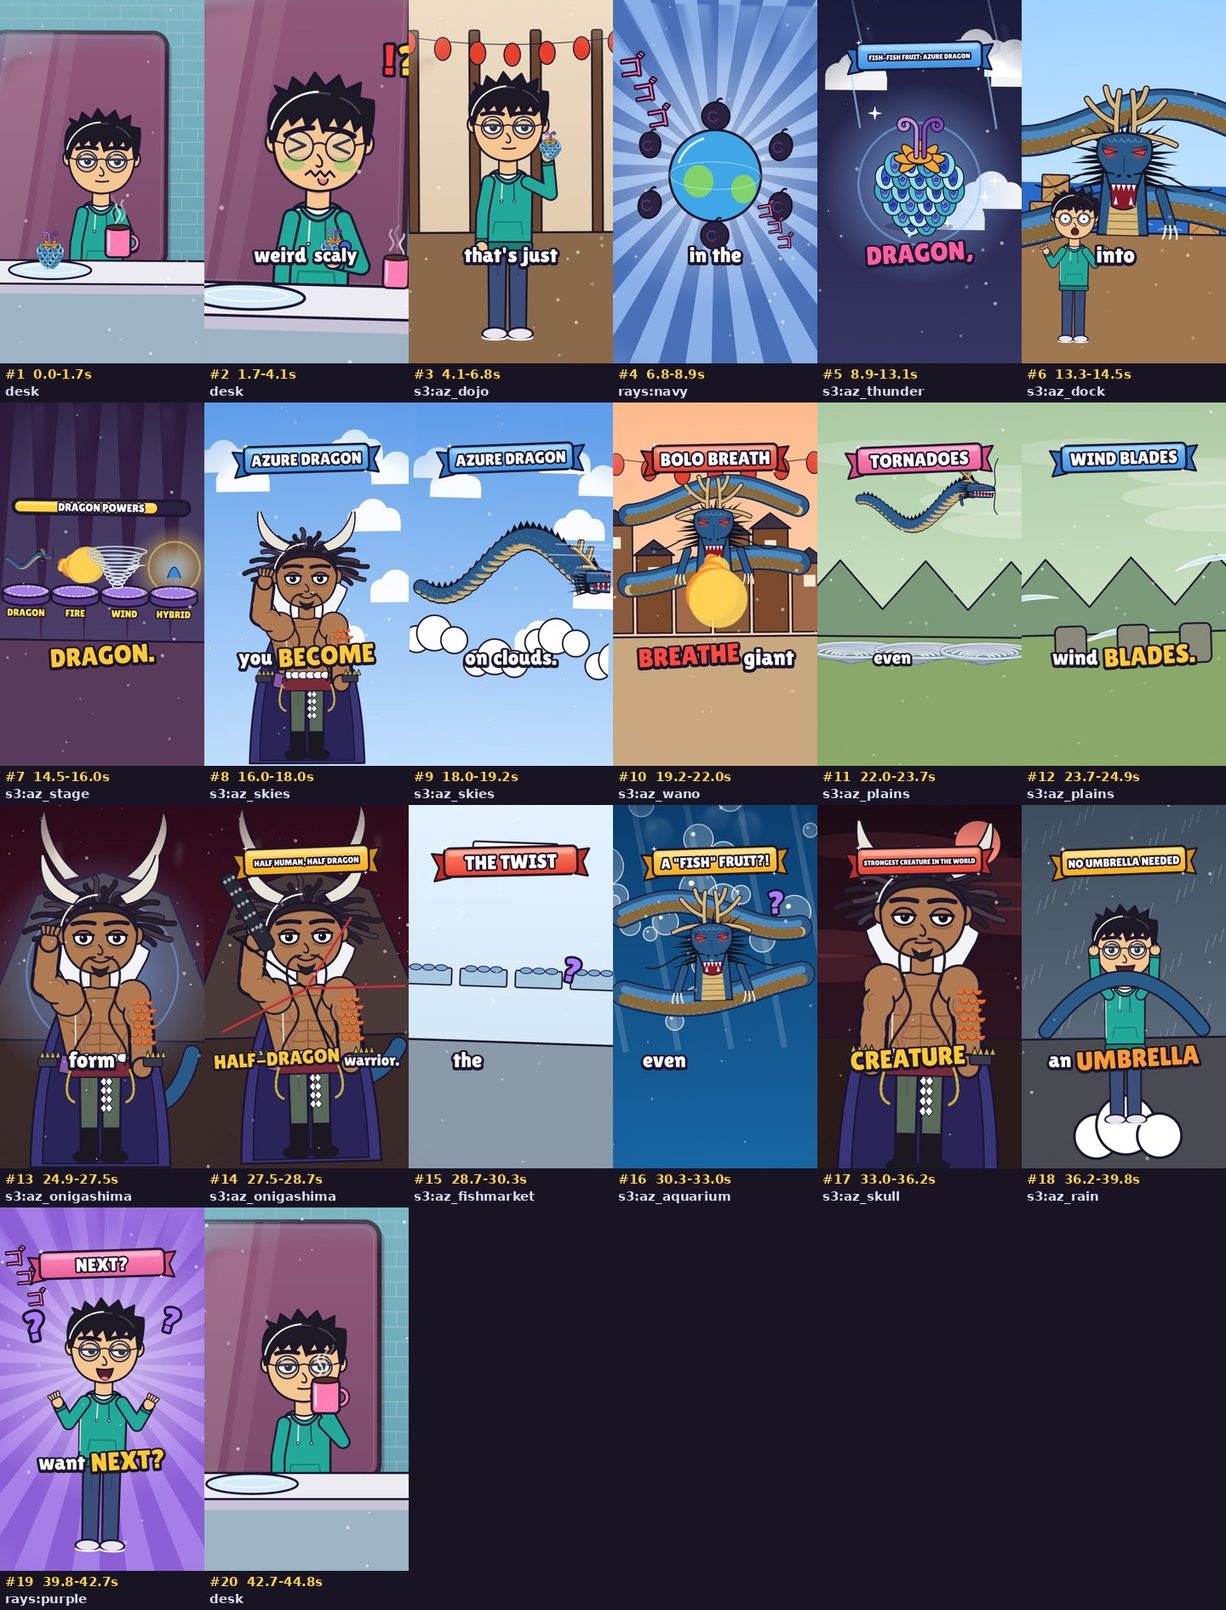
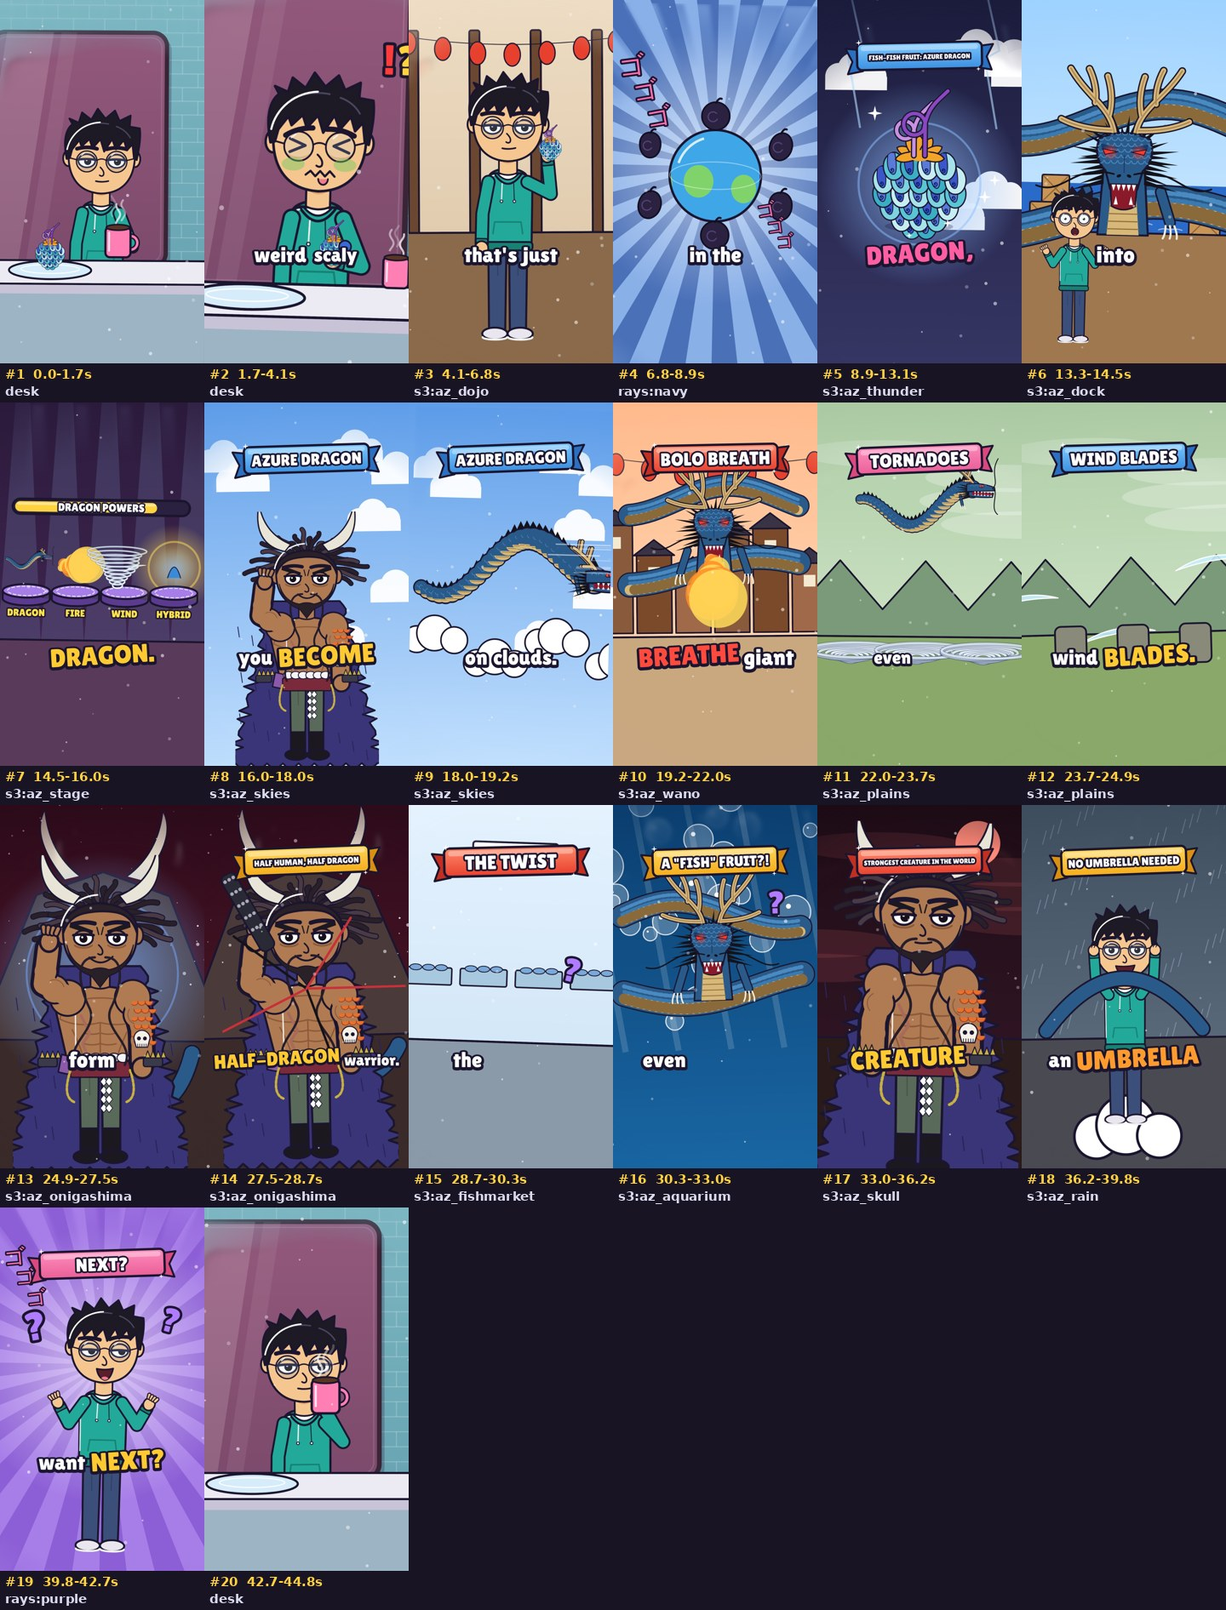
Kaido: shaggy fur coat, jaw beard, angry brows, skull tattoo; Seiryu fruit and dragon closer to the references
Claude-Session: https://claude.ai/code/session_01LedSfqc1zbW4UvWfiqXE3c

diff --git a/engine/art.js b/engine/art.js
@@ -159,8 +159,8 @@ export const LOOKS = {
           top: 'coat', cloth: '#f4f0e6', clothD: '#d8d0c0', inner: '#f4f0e6', innerD: '#d8d0c0', cloakCol: '#5a4a3a', cloakLining: '#3a3028', pants: '#4a4a5a', shoe: '#2a2026', boots: false, arm: '#f4f0e6', cuff: '#f4f0e6' },
   katakuri: { skin: '#e0a878', skinD: '#c08a5a', hair: '#a8305a', hairL: '#d0507a', hairStyle: 'spikyLong', furScarf: true, buff: 1, fit: 1.08,
           top: 'katakuri', pants: '#1b1820', pantsStripes: '#4a4a5a', shoe: '#2a2a36', boots: true, arm: '#e0a878', glove: '#3a2a20', spikeCuffs: true },
-  kaido: { skin: '#b07a52', skinD: '#8a5a3a', hair: '#2a2028', hairL: '#4a3a44', hairStyle: 'short', dreadMane: true, bullHorns: true, goateeLong: true, whiskers: true, buff: 1.5, fit: 1.0,
-          top: 'kaido', cloakCol: '#3a3478', cloakLining: '#2a2458', fur: true, pants: '#5a6a5a', shoe: '#1b1820', boots: true, arm: '#b07a52', spikeCuffs: true, dragonSleeve: true },
+  kaido: { skin: '#b07a52', skinD: '#8a5a3a', hair: '#2a2028', hairL: '#4a3a44', hairStyle: 'short', dreadMane: true, bullHorns: true, jawBeard: true, angryBrows: true, whiskers: true, skullTat: true, buff: 1.5, fit: 1.0,
+          top: 'kaido', cloakCol: '#3a3478', cloakLining: '#2a2458', shaggyCloak: true, pants: '#5a6a5a', shoe: '#1b1820', boots: true, arm: '#b07a52', spikeCuffs: true, dragonSleeve: true },
   sabo: { skin: '#f7cc9c', skinD: '#e2ab78', hair: '#f2cf55', hairL: '#ffe58a', hairStyle: 'curly', hat: 'top', scar: true,
           top: 'coat', cloth: '#2f4f8f', clothD: '#223a6c', inner: '#f4f1ea', innerD: '#cfc8b8', cravat: true, pants: '#3a3340', shoe: '#6b4630', boots: true, cuff: '#f4f1ea' },
 };
@@ -232,6 +232,9 @@ function drawLegs(x, L) {
   x.lineWidth = 6; x.strokeStyle = 'rgba(0,0,0,0.2)'; x.beginPath(); x.moveTo(318, 1150); x.lineTo(320, 1250); x.moveTo(444, 1150); x.lineTo(442, 1250); x.stroke(); // fold lines
 }
 function drawCloak(x, L) { // long smooth cloak from the shoulders to the ground; optional spotted lining and fur collar
+  if (L.shaggyCloak) { const c = L.cloakCol; x.beginPath(); x.moveTo(380, 520); for (let i = 0; i <= 40; i++) { const u = i / 40, px = lerpN(150, -120, u) + Math.sin(i * 2.3) * 30, py = lerpN(520, 1660, u); x.lineTo(px - (i % 2) * 40, py); }
+    for (let i = 0; i <= 18; i++) x.lineTo(-120 + i * 55, 1660 + (i % 2) * 50); for (let i = 40; i >= 0; i--) { const u = i / 40, px = lerpN(610, 880, u) - Math.sin(i * 2.3) * 30, py = lerpN(520, 1660, u); x.lineTo(px + (i % 2) * 40, py); } x.closePath(); fs(x, c, 12);
+    x.strokeStyle = L.cloakLining; x.lineWidth = 6; for (let i = 0; i < 30; i++) { const px = (i * 97) % 960 - 100, py = 700 + (i * 61) % 900; if (px > 180 && px < 580) continue; x.beginPath(); x.moveTo(px, py); x.lineTo(px + 10, py + 70); x.stroke(); } return; }
   x.beginPath(); x.moveTo(250, 600); x.quadraticCurveTo(0, 900, -20, 1660); x.lineTo(780, 1660); x.quadraticCurveTo(760, 900, 510, 600); x.closePath(); fs(x, L.cloakCol, 12);
   if (L.cloakLining) { x.beginPath(); x.moveTo(260, 640); x.quadraticCurveTo(60, 950, 50, 1640); x.lineTo(710, 1640); x.quadraticCurveTo(700, 950, 500, 640); x.closePath(); fs(x, L.cloakLining, 8);
     if (L.liningSpots) x.save(); else x.save(), x.beginPath(), x.rect(0, 0, 0, 0); x.clip(); x.fillStyle = '#2a2014'; for (let i = 0; i < 46; i++) { x.beginPath(); x.ellipse(40 + (i * 131) % 680, 660 + ((i * 197) % 1000), 18, 26, 0.3, 0, 7); x.fill(); } x.restore(); }
@@ -524,6 +527,8 @@ export function drawPerson({ who = 'host', expr = 'calm', mouth = 0, blink = fal
   head(); fs(x, L.skin, 12);
   if (L.sideburns) { x.save(); head(); x.clip(); x.fillStyle = L.hair; for (const sd of [-1, 1]) { x.beginPath(); x.moveTo(380 + sd * 215, 200); x.lineTo(380 + sd * 160, 200); x.quadraticCurveTo(380 + sd * 165, 380, 380 + sd * 150, 520); x.lineTo(380 + sd * 205, 470); x.closePath(); x.fill(); } x.restore(); head(); x.lineWidth = 12; x.strokeStyle = OL; x.stroke(); }
   if (L.thinBurns) { x.save(); head(); x.clip(); x.fillStyle = L.hair; for (const sd of [-1, 1]) { x.beginPath(); x.moveTo(380 + sd * 205, 200); x.lineTo(380 + sd * 168, 210); x.quadraticCurveTo(380 + sd * 160, 360, 380 + sd * 150, 470); x.lineTo(380 + sd * 172, 478); x.quadraticCurveTo(380 + sd * 190, 360, 380 + sd * 205, 200); x.closePath(); x.fill(); } x.restore(); head(); x.lineWidth = 12; x.strokeStyle = OL; x.stroke(); }
+  if (L.angryBrows) { for (const sd of [-1, 1]) { x.beginPath(); x.moveTo(380 + sd * 40, 318); x.lineTo(380 + sd * 170, 270); x.lineTo(380 + sd * 175, 300); x.lineTo(380 + sd * 45, 342); x.closePath(); x.fillStyle = '#1b1820'; x.fill(); } x.strokeStyle = '#1b1820'; x.lineWidth = 7; x.beginPath(); x.moveTo(362, 300); x.lineTo(372, 340); x.moveTo(398, 300); x.lineTo(388, 340); x.stroke(); }
+  if (L.jawBeard) { x.beginPath(); x.moveTo(190, 400); x.quadraticCurveTo(215, 540, 330, 575); x.lineTo(380, 640); x.lineTo(430, 575); x.quadraticCurveTo(545, 540, 570, 400); x.quadraticCurveTo(540, 520, 430, 540); x.quadraticCurveTo(380, 520, 330, 540); x.quadraticCurveTo(220, 520, 190, 400); x.closePath(); x.fillStyle = L.hair; x.fill(); x.strokeStyle = OL; x.lineWidth = 6; x.stroke(); }
   if (L.goateeLong) { x.beginPath(); x.moveTo(330, 520); x.quadraticCurveTo(380, 640, 430, 520); x.quadraticCurveTo(380, 560, 330, 520); fs(x, L.hair, 8); }
   if (L.wrinkles) { x.strokeStyle = L.skinD; x.lineWidth = 6; x.lineCap = 'round'; for (const sd of [-1, 1]) { x.beginPath(); x.moveTo(380 + sd * 70, 445); x.quadraticCurveTo(380 + sd * 95, 500, 380 + sd * 80, 545); x.stroke(); } x.beginPath(); x.moveTo(320, 235); x.lineTo(440, 235); x.moveTo(335, 255); x.lineTo(425, 255); x.stroke(); }
   if (L.beard) { x.beginPath(); x.moveTo(176, 380); x.bezierCurveTo(190, 520, 280, 600, 380, 604); x.bezierCurveTo(480, 600, 570, 520, 584, 380); x.bezierCurveTo(560, 470, 480, 470, 380, 470); x.bezierCurveTo(280, 470, 200, 470, 176, 380); fs(x, L.hair, 11); }
@@ -789,6 +794,7 @@ export function drawPerson({ who = 'host', expr = 'calm', mouth = 0, blink = fal
   if (L.shoulderPad) shoulderPad(x);
   if (L.spikeCuffs) for (const hx of (L.buff ? [[160 - L.buff * 54, 1070], [600 + L.buff * 54, 1070]] : [[160, 1070], [600, 1070]])) { rrect(x, hx[0] - 55, hx[1] - 30, 110, 50, 12); fs(x, '#3a3a4a', 7); for (let k = 0; k < 4; k++) { x.beginPath(); x.moveTo(hx[0] - 45 + k * 30, hx[1] - 30); x.lineTo(hx[0] - 30 + k * 30, hx[1] - 70); x.lineTo(hx[0] - 15 + k * 30, hx[1] - 30); x.closePath(); fs(x, '#c8b040', 5); } }
   if (L.dragonSleeve && (POSES[pose] || POSES.idle).R[1][1] > 1000) { x.save(); x.beginPath(); x.rect(560, 640, 150, 330); x.clip(); for (let r = 0; r < 7; r++) for (let k = 0; k < 3; k++) { x.beginPath(); x.arc(575 + k * 42 + (r % 2) * 20, 720 + r * 45, 22, 0, Math.PI); x.fillStyle = '#e8702e'; x.fill(); x.lineWidth = 4; x.strokeStyle = '#a03a1a'; x.stroke(); } x.restore(); }
+  if (L.skullTat && (POSES[pose] || POSES.idle).R[1][1] > 1000) { const sx = 618, sy = 930; x.beginPath(); x.arc(sx, sy, 46, Math.PI, 0); x.lineTo(sx + 32, sy + 50); x.lineTo(sx - 32, sy + 50); x.closePath(); fs(x, '#f4f0e8', 6); x.fillStyle = OL; for (const d of [-17, 17]) { x.beginPath(); x.arc(sx + d, sy, 11, 0, 7); x.fill(); } for (let k = -2; k <= 2; k++) x.fillRect(sx + k * 12 - 2, sy + 30, 4, 18); }
   if (L.whiskers) for (const sd of [-1, 1]) { x.beginPath(); x.moveTo(380 + sd * 30, 470); x.bezierCurveTo(380 + sd * 150, 470, 380 + sd * 120, 640, 380 + sd * 60, 760); x.bezierCurveTo(380 + sd * 10, 880, 380 + sd * 200, 960, 380 + sd * 140, 1080); x.lineCap = 'round'; x.lineWidth = 13; x.strokeStyle = OL; x.stroke(); x.lineWidth = 7; x.strokeStyle = '#2a2028'; x.stroke(); }
   if (L.furScarf) for (let r = 0; r < 4; r++) { const y = 640 - r * 52; x.beginPath(); for (let i = 0; i <= 22; i++) { const a = Math.PI * (i / 22), w = 300 - r * 30; x.lineTo(380 - Math.cos(a) * w, y + Math.sin(a) * 50 + ((i % 2) ? 22 : 0)); } for (let i = 22; i >= 0; i--) { const a = Math.PI * (i / 22), w = 280 - r * 30; x.lineTo(380 - Math.cos(a) * w, y - 50 + Math.sin(a) * 30 - ((i % 2) ? 18 : 0)); } x.closePath(); fs(x, r % 2 ? '#1b1820' : '#f4ecd8', 7); }
   if (L.coatSleeves) for (const sd of [-1, 1]) { x.beginPath(); x.moveTo(380 + sd * 230, 700); x.quadraticCurveTo(380 + sd * 330, 900, 380 + sd * 320, 1130); x.lineTo(380 + sd * 240, 1140); x.quadraticCurveTo(380 + sd * 250, 920, 380 + sd * 200, 730); x.closePath(); fs(x, L.cloakCol || '#f4f4f8', 10); rrect(x, 380 + sd * 280 - 48, 1110, 96, 70, 16); fs(x, '#f4e070', 8); }

diff --git a/shorts/azure/story.js b/shorts/azure/story.js
@@ -55,7 +55,7 @@ export function dragon(x, cx, cy, s, t, o = {}) { const n = 30, pts = []; for (l
 function coil(x, pts, w) { const path = () => { x.beginPath(); pts.forEach(([px, py], i) => (i ? x.lineTo(px, py) : x.moveTo(px, py))); };
   x.lineCap = 'round'; x.lineJoin = 'round'; path(); x.lineWidth = w + 18; x.strokeStyle = A.OL; x.stroke(); path(); x.lineWidth = w; x.strokeStyle = '#2a5a8a'; x.stroke();
   x.save(); x.translate(0, w * 0.22); path(); x.lineWidth = w * 0.45; x.strokeStyle = '#d8b878'; x.stroke(); path(); x.setLineDash([6, w * 0.22]); x.lineWidth = w * 0.45; x.strokeStyle = '#8a6a3a'; x.stroke(); x.restore();
-  x.save(); x.translate(0, -w * 0.18); path(); x.setLineDash([w * 0.18, w * 0.14]); x.lineWidth = w * 0.3; x.strokeStyle = '#4a8ac0'; x.stroke(); x.restore(); x.setLineDash([]); }
+  for (const [off, lw] of [[-0.3, 0.16], [-0.08, 0.14]]) { x.save(); x.translate(0, w * off); path(); x.setLineDash([w * 0.12, w * 0.1]); x.lineWidth = w * lw; x.strokeStyle = off < -0.2 ? '#4a8ac0' : '#3a7ab0'; x.stroke(); x.restore(); } x.setLineDash([]); }
 export function dragonFront(x, cx, cy, s, t, o = {}) { x.save(); x.translate(cx, cy); x.scale(s, s); const wv = Math.sin(t * 2) * 20;
   // body coils behind the head
   const c1 = [], c2 = []; for (let i = 0; i <= 30; i++) { const u = i / 30; c1.push([-700 + u * 1400, -250 + Math.sin(u * 5 + t) * 120 + wv]); c2.push([700 - u * 1400, 330 + Math.sin(u * 4 + t + 2) * 110]); }
@@ -63,16 +63,16 @@ export function dragonFront(x, cx, cy, s, t, o = {}) { x.save(); x.translate(cx,
   // neck down from the head
   x.beginPath(); x.moveTo(-120, 0); x.lineTo(120, 0); x.lineTo(150, 420); x.lineTo(-150, 420); x.closePath(); A.fs(x, '#2a5a8a', 12); x.fillStyle = '#d8b878'; x.beginPath(); x.moveTo(-70, 120); x.lineTo(70, 120); x.lineTo(95, 420); x.lineTo(-95, 420); x.closePath(); x.fill(); x.strokeStyle = '#8a6a3a'; x.lineWidth = 6; for (let k = 0; k < 6; k++) { x.beginPath(); x.moveTo(-75 - k * 4, 160 + k * 45); x.lineTo(75 + k * 4, 160 + k * 45); x.stroke(); }
   // clawed arms
-  for (const sd of [-1, 1]) { x.save(); x.translate(sd * 220, 220); x.beginPath(); x.moveTo(0, -60); x.lineTo(sd * 60, 120); x.lineCap = 'round'; x.lineWidth = 70; x.strokeStyle = A.OL; x.stroke(); x.lineWidth = 52; x.strokeStyle = '#2a5a8a'; x.stroke(); for (const d of [-26, 0, 26]) { x.beginPath(); x.moveTo(sd * 60 + d, 140); x.quadraticCurveTo(sd * 70 + d * 1.4, 190, sd * 60 + d * 1.6, 215); x.lineWidth = 12; x.strokeStyle = '#f4ecd8'; x.stroke(); } x.restore(); }
+  for (const sd of [-1, 1]) { x.save(); x.translate(sd * 220, 220); x.beginPath(); x.moveTo(0, -60); x.lineTo(sd * 60, 120); x.lineCap = 'round'; x.lineWidth = 70; x.strokeStyle = A.OL; x.stroke(); x.lineWidth = 52; x.strokeStyle = '#2a5a8a'; x.stroke(); for (const d of [-26, 0, 26]) { x.beginPath(); x.moveTo(sd * 60 + d, 140); x.quadraticCurveTo(sd * 70 + d * 1.4, 190, sd * 60 + d * 1.6, 215); x.lineWidth = 12; x.strokeStyle = '#f4ecd8'; x.stroke(); } if (o.flames) A.flame(x, sd * 70, 150, 90, 220, t, sd + 2); x.restore(); }
   // black wild mane around the head
   for (let i = 0; i < 20; i++) { const a = Math.PI * (0.95 + i / 19 * 1.1), r = 230 + (i % 3) * 50; x.beginPath(); x.moveTo(Math.cos(a - 0.12) * 120, -40 + Math.sin(a - 0.12) * 120); x.lineTo(Math.cos(a) * r, -40 + Math.sin(a) * r * 0.9 + (i % 2) * 20); x.lineTo(Math.cos(a + 0.12) * 120, -40 + Math.sin(a + 0.12) * 120); x.closePath(); x.fillStyle = '#14121a'; x.fill(); }
   for (const sd of [-1, 1]) for (let k = 0; k < 6; k++) { x.beginPath(); x.moveTo(sd * 120, -60 + k * 30); x.lineTo(sd * (260 + (k % 2) * 60), -40 + k * 40); x.lineTo(sd * 120, -30 + k * 30); x.closePath(); x.fillStyle = '#14121a'; x.fill(); }
-  // tan branching antlers
-  for (const sd of [-1, 1]) { const br = () => { x.beginPath(); x.moveTo(sd * 50, -150); x.quadraticCurveTo(sd * 60, -300, sd * 40, -430); x.moveTo(sd * 54, -240); x.quadraticCurveTo(sd * 150, -270, sd * 230, -380); x.moveTo(sd * 52, -330); x.quadraticCurveTo(sd * 100, -360, sd * 120, -450); x.moveTo(sd * 70, -170); x.quadraticCurveTo(sd * 200, -170, sd * 300, -120); };
-    x.lineCap = 'round'; br(); x.lineWidth = 40; x.strokeStyle = A.OL; x.stroke(); br(); x.lineWidth = 26; x.strokeStyle = '#d8b878'; x.stroke(); }
+  // big tan antlers: curve up and out from the brow, then sweep back with forward branches
+  for (const sd of [-1, 1]) { const br = () => { x.beginPath(); x.moveTo(sd * 60, -150); x.bezierCurveTo(sd * 70, -330, sd * 220, -380, sd * 330, -560); x.moveTo(sd * 95, -290); x.quadraticCurveTo(sd * 70, -400, sd * 110, -520); x.moveTo(sd * 180, -360); x.quadraticCurveTo(sd * 170, -460, sd * 220, -560); x.moveTo(sd * 80, -200); x.quadraticCurveTo(sd * 260, -200, sd * 380, -260); };
+    x.lineCap = 'round'; br(); x.lineWidth = 46; x.strokeStyle = A.OL; x.stroke(); br(); x.lineWidth = 30; x.strokeStyle = '#d8b878'; x.stroke(); br(); x.lineWidth = 8; x.strokeStyle = '#a8865a'; x.stroke(); }
   // head: broad brow narrowing to a long snout
   x.beginPath(); x.moveTo(-150, -150); x.quadraticCurveTo(0, -220, 150, -150); x.quadraticCurveTo(190, -40, 110, 40); x.lineTo(80, 150); x.quadraticCurveTo(0, 175, -80, 150); x.lineTo(-110, 40); x.quadraticCurveTo(-190, -40, -150, -150); x.closePath(); A.fs(x, '#2a5a8a', 12);
-  x.strokeStyle = '#4a8ac0'; x.lineWidth = 6; for (let k = 0; k < 5; k++) { x.beginPath(); x.arc(-80 + k * 40, -150, 18, 0, Math.PI); x.stroke(); }
+  x.save(); x.beginPath(); x.moveTo(-150, -150); x.quadraticCurveTo(0, -220, 150, -150); x.quadraticCurveTo(190, -40, 110, 40); x.lineTo(80, 150); x.lineTo(-80, 150); x.lineTo(-110, 40); x.quadraticCurveTo(-190, -40, -150, -150); x.clip(); x.strokeStyle = '#4a8ac0'; x.lineWidth = 5; for (let r = 0; r < 6; r++) for (let k = -4; k <= 4; k++) { x.beginPath(); x.arc(k * 40 + (r % 2) * 20, -190 + r * 34, 17, 0, Math.PI); x.stroke(); } x.restore();
   // brows + glowing red eyes
   for (const sd of [-1, 1]) { x.beginPath(); x.moveTo(sd * 30, -95); x.lineTo(sd * 140, -120); x.lineTo(sd * 135, -85); x.closePath(); x.fillStyle = '#1a3a6a'; x.fill(); A.glow(x, sd * 85, -70, 50, '255,60,40', 0.8); x.beginPath(); x.moveTo(sd * 40, -72); x.lineTo(sd * 130, -88); x.lineTo(sd * 115, -55); x.closePath(); A.fs(x, '#ff3a2a', 5); }
   // snout ridge + nostrils
@@ -111,7 +111,7 @@ export function buildShots(TL) {
   const tFly = W('power1', /^fly/) - 0.1;
   addSplit({ name: 'Power 1 (open skies): Kaido roars and turns into a huge blue dragon; blue AZURE DRAGON banner', t0: st('power1'), t1: end('power1'), bg: 's3:az_skies',
     cam: [[1.0, 540, 980, -0.02], [1.05, 560, 970, -0.01]], banners: [['AZURE DRAGON', 'blue', st('power1') + 0.2, end('power1'), 'slide']], sfx: [[0.2, 'rumble'], [W('power1', /^dragon/) - st('power1'), 'boom']],
-    draw(x, S) { const td = W('power1', /^dragon/); if (S.T < td) person(x, S, 'kaido', 'grin', 540, 1880, 0.74, { seed: 2, pose: 'raise' }); else { dragonFront(x, 540, 1000, 0.5 + 0.35 * ease.outBack(prog(S.T, td, td + 0.5)), S.T, { roar: true }); if (S.T < td + 0.3) S.shake = 0.5; } } },
+    draw(x, S) { const td = W('power1', /^dragon/); if (S.T < td) person(x, S, 'kaido', 'grin', 540, 1880, 0.74, { seed: 2, pose: 'raise' }); else { dragonFront(x, 540, 1060, 0.5 + 0.3 * ease.outBack(prog(S.T, td, td + 0.5)), S.T, { roar: true, flames: true }); if (S.T < td + 0.3) S.shake = 0.5; } } },
     tFly, [[0.95, 540, 960, 0.02], [1.0, 540, 940, 0.035]], 'Power 1 fly (same skies): the dragon swims through the air riding on puffy white clouds');
   const p1 = T.shots[T.shots.length - 1]; p1.sfx = [[0.1, 'whoosh']]; p1.draw = function (x, S) { for (let i = 0; i < 4; i++) cloudPuff(x, ((S.T * 260 + i * 330) % 1500) - 200, 1250 + (i % 2) * 120, 1.2); dragon(x, 540, 900, 0.9, S.T); A.speedLines(x, 540, 900, S.T, 10, 260, Math.PI); };
 

diff --git a/engine/fruits3.js b/engine/fruits3.js
@@ -158,17 +158,21 @@ export const drawMochi = wrap((x, cx, cy, R) => {
 });
 // ---- Uo Uo no Mi, Model: Seiryu (user's reference): pinecone of overlapping teal/blue scales with curled tongues, orange star calyx, two purple curly stems ----
 export const drawSeiryu = wrap((x, cx, cy, R) => {
-  // big overlapping scales in a teardrop: each a pale teal U with a dark-blue curled tongue; lower rows drawn first so upper rows overlap them
-  const rows = [[-0.45, 4, 0.66], [-0.15, 5, 0.9], [0.15, 5, 0.92], [0.45, 4, 0.7], [0.72, 3, 0.44], [0.92, 2, 0.2]];
-  const cols = ['#5ac8d8', '#b8ecf0', '#3ab0c8', '#8adce6'];
-  const scale = (sx, sy, sw, sh, c, d) => { x.beginPath(); x.ellipse(sx, sy, sw, sh, 0, 0, 7); x.fillStyle = c; x.fill(); x.lineWidth = R * 0.028; x.strokeStyle = OL; x.stroke();
-    x.beginPath(); x.ellipse(sx, sy - sh * 0.05, sw * 0.42, sh * 0.72, 0, 0, 7); x.fillStyle = d; x.fill(); x.lineWidth = R * 0.018; x.stroke(); curl(x, sx, sy + sh * 0.12, sw * 0.26, R * 0.02, '#0a1a5a'); };
-  for (let r = rows.length - 1; r >= 0; r--) { const [dy, n, w] = rows[r]; for (let i = 0; i < n; i++) { const u = n === 1 ? 0 : i / (n - 1) - 0.5; scale(cx + u * w * R * 1.75, cy + dy * R, R * 0.25, R * 0.3, cols[(i + r) % 4], (i + r) % 2 ? '#3a5ad0' : '#6a8ae8'); } }
-  // big orange calyx: rounded arms spreading over the top scales
-  const ccy = cy - R * 0.62; for (let i = 0; i < 7; i++) { const a = -Math.PI / 2 + (i - 3) * 0.75; x.save(); x.translate(cx + Math.cos(a) * R * 0.3, ccy + Math.sin(a) * R * 0.16 + R * 0.05); x.rotate(a + Math.PI / 2); x.beginPath(); x.ellipse(0, 0, R * 0.12, R * 0.3, 0, 0, 7); x.fillStyle = '#f0a830'; x.fill(); x.lineWidth = R * 0.03; x.strokeStyle = OL; x.stroke(); x.restore(); }
-  x.beginPath(); x.ellipse(cx, ccy, R * 0.3, R * 0.15, 0, 0, 7); x.fillStyle = '#f0a830'; x.fill(); x.lineWidth = R * 0.03; x.strokeStyle = OL; x.stroke();
-  // two purple stems rising high, each ending in a big loop curl
-  for (const [dx, col, d] of [[-0.08, '#c890e0', -1], [0.1, '#8a4ac0', 1]]) { const sp = () => { x.beginPath(); x.moveTo(cx + dx * R, cy - R * 0.64); x.lineTo(cx + dx * R, cy - R * 1.25); x.bezierCurveTo(cx + dx * R, cy - R * 1.55, cx + dx * R + d * R * 0.45, cy - R * 1.6, cx + dx * R + d * R * 0.4, cy - R * 1.35); x.bezierCurveTo(cx + dx * R + d * R * 0.35, cy - R * 1.2, cx + dx * R + d * R * 0.15, cy - R * 1.3, cx + dx * R + d * R * 0.22, cy - R * 1.4); };
-    x.lineCap = 'round'; sp(); x.lineWidth = R * 0.14; x.strokeStyle = OL; x.stroke(); sp(); x.lineWidth = R * 0.08; x.strokeStyle = col; x.stroke(); }
+  // egg shape built from big teardrop scales; upper rows overlap the rows below
+  const rows = [[-0.42, 4, 0.7], [-0.1, 5, 0.98], [0.22, 5, 0.98], [0.52, 4, 0.78], [0.78, 3, 0.48], [0.96, 2, 0.2]];
+  const cols = ['#58c4d4', '#a6e2ea', '#3aaec4', '#7cd2de', '#c6eef2'];
+  const scale = (sx, sy, sw, sh, c, d) => {
+    const P = () => { x.beginPath(); x.moveTo(sx - sw * 0.55, sy - sh * 0.7); x.bezierCurveTo(sx - sw * 1.25, sy - sh * 0.2, sx - sw * 0.9, sy + sh, sx, sy + sh); x.bezierCurveTo(sx + sw * 0.9, sy + sh, sx + sw * 1.25, sy - sh * 0.2, sx + sw * 0.55, sy - sh * 0.7); x.quadraticCurveTo(sx, sy - sh * 1.15, sx - sw * 0.55, sy - sh * 0.7); x.closePath(); };
+    P(); x.fillStyle = c; x.fill(); x.lineWidth = R * 0.03; x.strokeStyle = OL; x.lineJoin = 'round'; x.stroke();
+    x.save(); P(); x.clip(); x.beginPath(); x.moveTo(sx - sw * 0.5, sy - sh * 0.9); x.bezierCurveTo(sx - sw * 0.75, sy + sh * 0.1, sx - sw * 0.35, sy + sh * 0.62, sx - sw * 0.02, sy + sh * 0.6); x.bezierCurveTo(sx + sw * 0.28, sy + sh * 0.55, sx + sw * 0.25, sy - sh * 0.2, sx + sw * 0.05, sy - sh * 0.9); x.closePath(); x.fillStyle = d; x.fill(); x.lineWidth = R * 0.02; x.stroke(); x.restore();
+    curl(x, sx - sw * 0.18, sy + sh * 0.3, sw * 0.24, R * 0.022, '#0a1a5a'); };
+  for (let r = rows.length - 1; r >= 0; r--) { const [dy, n, w] = rows[r]; for (let i = 0; i < n; i++) { const u = n === 1 ? 0 : i / (n - 1) - 0.5; scale(cx + u * w * R * 1.72, cy + dy * R, R * 0.27, R * 0.34, cols[(i * 2 + r) % 5], (i + r) % 2 ? '#3a56c8' : '#5a7ad8'); } }
+  // orange calyx: six fat rounded arms spreading flat over the top
+  const ccy = cy - R * 0.66; for (const a of [-2.75, -2.15, -1.6, -1.05, -0.45, 0.15, 2.95]) { x.save(); x.translate(cx + Math.cos(a) * R * 0.28, ccy + Math.sin(a) * R * 0.18); x.rotate(a + Math.PI / 2); x.beginPath(); x.moveTo(-R * 0.1, R * 0.12); x.quadraticCurveTo(-R * 0.14, -R * 0.2, 0, -R * 0.3); x.quadraticCurveTo(R * 0.14, -R * 0.2, R * 0.1, R * 0.12); x.closePath(); x.fillStyle = '#f2a428'; x.fill(); x.lineWidth = R * 0.03; x.strokeStyle = OL; x.stroke(); x.restore(); }
+  x.beginPath(); x.ellipse(cx, ccy, R * 0.28, R * 0.13, 0, 0, 7); x.fillStyle = '#f2a428'; x.fill();
+  // two tall purple stems: up, a loop curling to the left, then a long tail flicking up to the right
+  for (const [dx, col, sc] of [[-0.14, '#c890e0', 0.85], [0.12, '#8a48c0', 1.05]]) { const bx = cx + dx * R, yt = ccy - R * 0.7 * sc, r = R * 0.24 * sc, lc = bx - r;
+    const sp = () => { x.beginPath(); x.moveTo(bx, ccy); x.lineTo(bx, yt); x.arc(lc, yt, r, 0, -1.85 * Math.PI, true); x.bezierCurveTo(lc + r * 1.2, yt - r * 1.6, bx + R * 0.25 * sc, yt - R * 0.5 * sc, bx + R * 0.5 * sc, yt - R * 0.75 * sc); };
+    x.lineCap = 'round'; x.lineJoin = 'round'; sp(); x.lineWidth = R * 0.14; x.strokeStyle = OL; x.stroke(); sp(); x.lineWidth = R * 0.08; x.strokeStyle = col; x.stroke(); }
 });
 export const FRUITS3 = { mochi: drawMochi, azure: drawSeiryu,  light: drawPika,  axolotl: drawSara,  shadow: drawKage,  bubble: drawAwa, munch: drawBaku, bomb: drawBomu, wax: drawDoru, brush: drawFude, rumble: drawGoro, flower: drawHana, orochi: drawOrochi, human: drawHito, hollow: drawHoro, wolf: drawWolf, magnet: drawJiki, kilo: drawKiro, clone: drawMane, love: drawMero };
